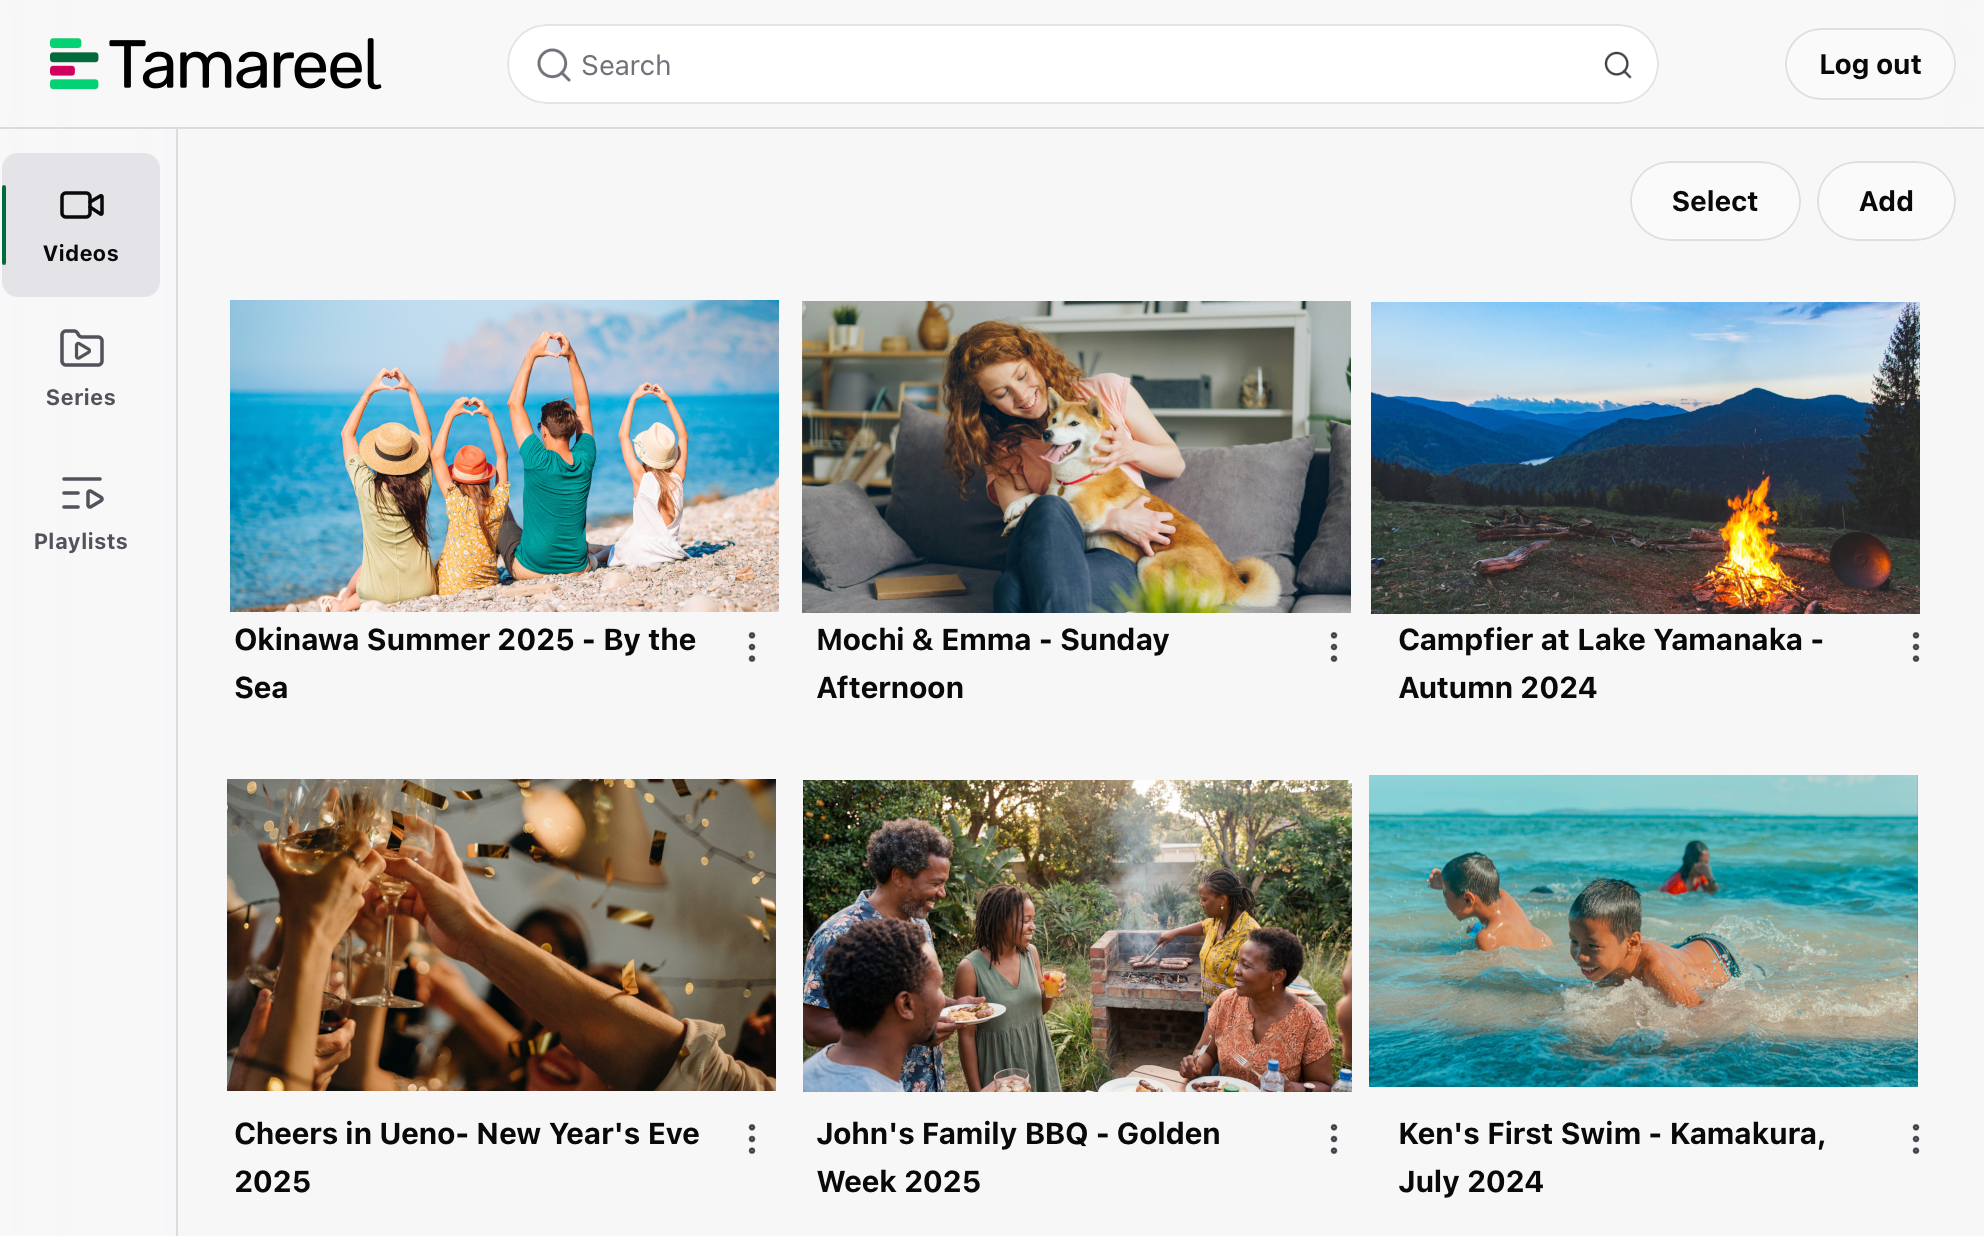
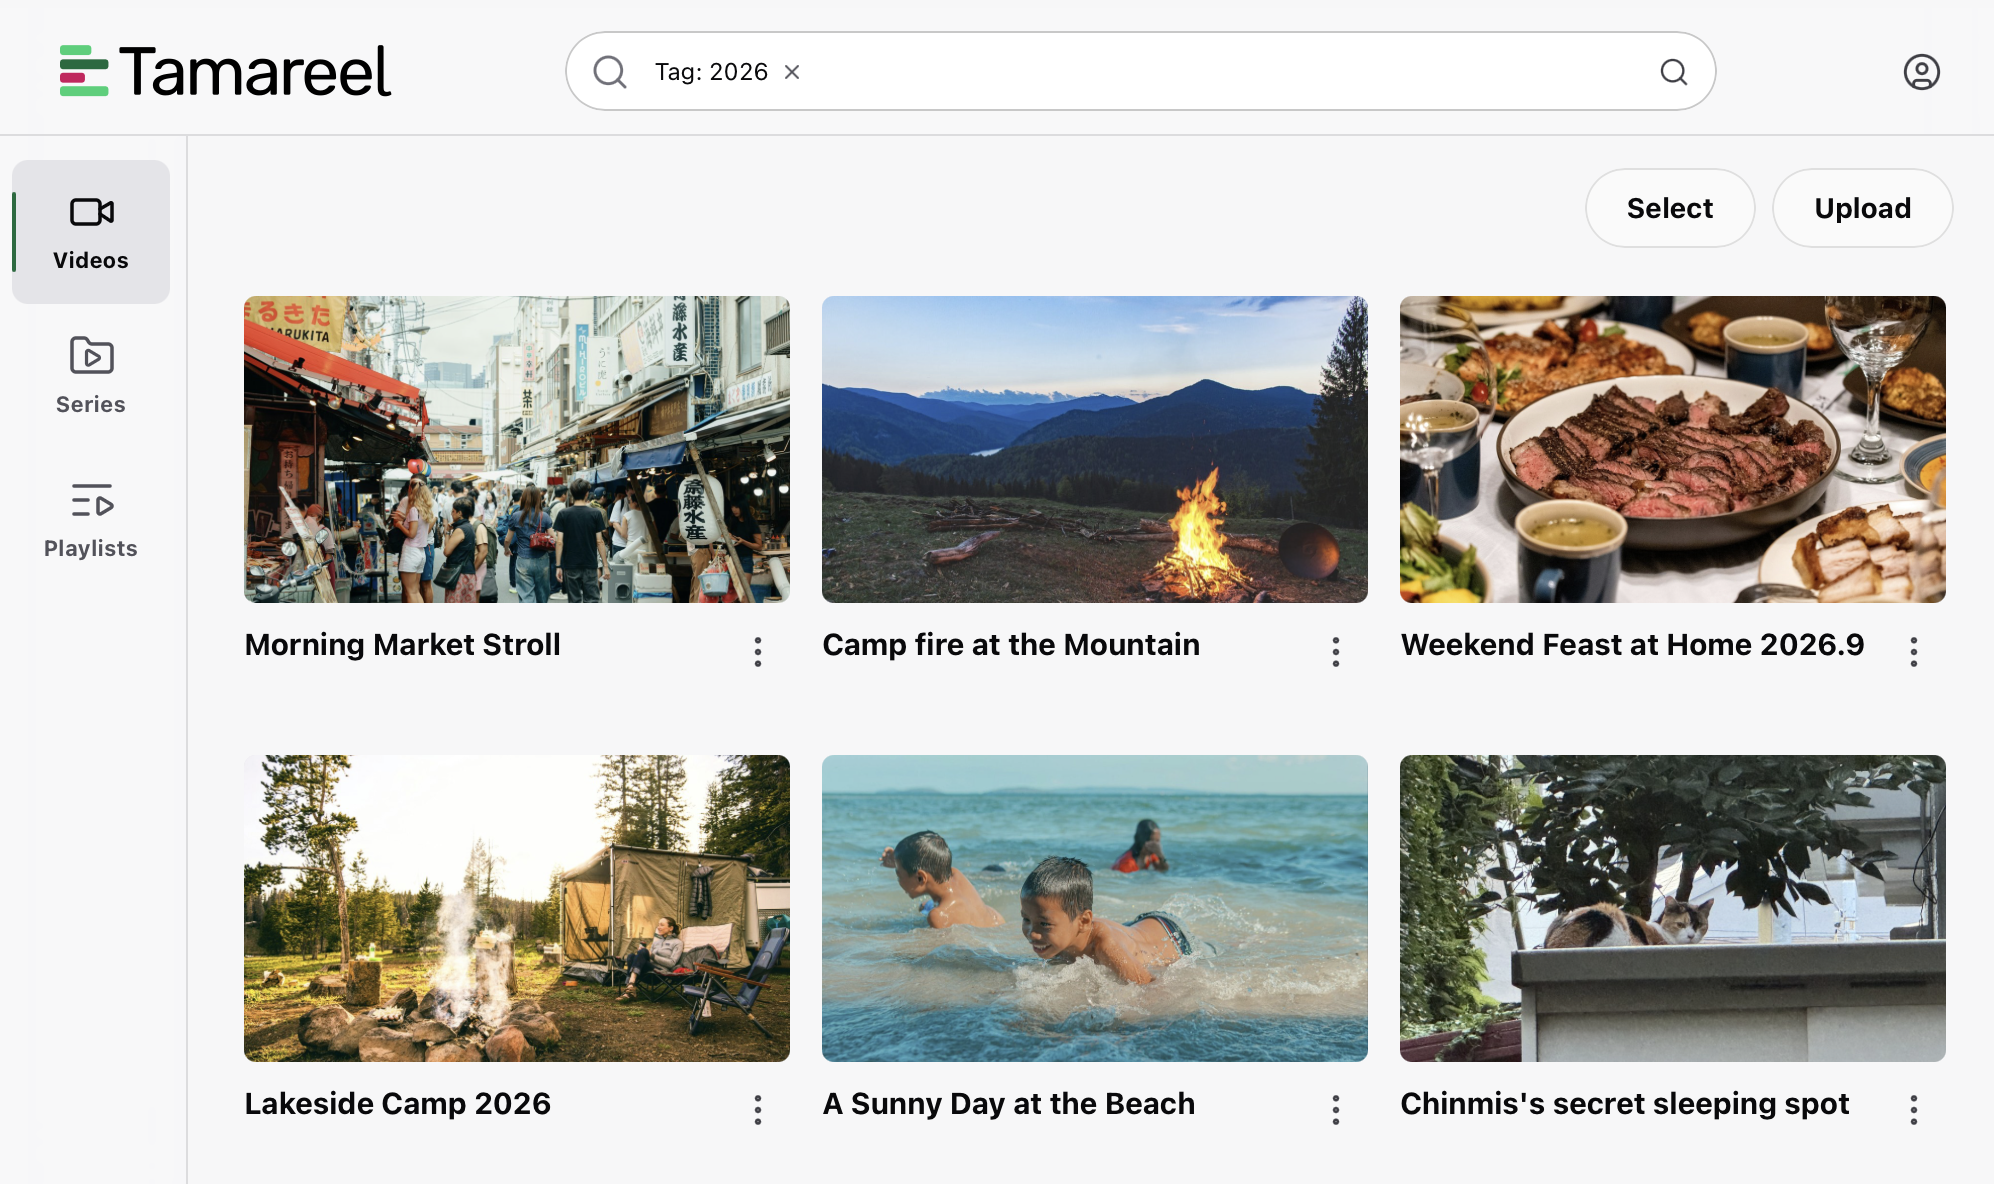
文言、画像修正

diff --git a/index.html b/index.html
@@ -24,8 +24,8 @@
       <div class="container hero-grid">
         <div class="hero-copy">
           <p class="eyebrow"><i></i> YOUR VIDEO LIBRARY</p>
-          <h1>保存するだけじゃない<br><em>動画を楽しむための</em><br>クラウドストレージ</h1>
-          <p class="lead">Tamareelならあなた専用の動画コレクションを自分好みに整理して、どこからでも楽しめます。</p>
+          <h1>自分専用の<br>動画配信サービス</h1>
+          <p class="lead">Tamareelは、自分専用の動画配信プラットフォームを構築できるクラウドサービスです。</p>
           <div class="hero-actions"><a class="button" href="https://app.tamareel.com/signup">はじめる <span aria-hidden="true">→</span></a><a
               class="button button-secondary" href="#features">詳しく見る</a></div>
         </div>
@@ -35,24 +35,24 @@
     <section id="features" class="section section-tint">
       <div class="container">
         <div class="section-intro">
-          <h2>動画のためのストレージ</h2>
-          <p>保存するだけでなく、整理して、探して、観る。あなたの動画コレクションを心地よく整えます。</p>
+          <h2>動画に特化した機能</h2>
+          <p>ただのクラウドストレージと違い、動画のスムーズな再生と充実した整理機能が特徴です。</p>
         </div>
         <div class="features">
           <article class="feature">
-            <div class="feature-icon">↑</div>
-            <h3>あなただけのコレクション</h3>
-            <p>共有機能はありません。あなただけのコレクションを安全に保管します。</p>
+            <div class="feature-icon">▷</div>
+            <h3>スムーズな再生</h3>
+            <p>パソコンでもスマートフォンでも、動画の好きなシーンからすぐ再生できます。</p>
           </article>
           <article class="feature">
             <div class="feature-icon">⌘</div>
-            <h3>自分好みに整理</h3>
-            <p>タイトル、タグ、説明を添えて、観たい動画にすぐたどり着けるコレクションへ。</p>
+            <h3>充実した整理機能</h3>
+            <p>タイトル、タグ、説明、プレイリストなど、動画を整理する機能が充実しています。</p>
           </article>
           <article class="feature">
-            <div class="feature-icon">▷</div>
-            <h3>好きなときに再生</h3>
-            <p>パソコンでもスマートフォンでも。あなたの動画を、どこからでも楽しめます。</p>
+            <div class="feature-icon">↑</div>
+            <h3>自分専用のコレクション</h3>
+            <p>動画の共有機能はありません。自分専用のコレクションを安全に保管します。</p>
           </article>
         </div>
       </div>
@@ -60,8 +60,8 @@
     <section id="how-it-works" class="section">
       <div class="container">
         <div class="section-intro">
-          <h2>はじめ方は、とてもシンプル。</h2>
-          <p>数分で、あなたの動画コレクションを楽しむ準備が整います。</p>
+          <h2>使い方はとても簡単</h2>
+          <p>複雑な設定は不要、すぐに始められます。</p>
         </div>
         <div class="steps">
           <article class="step">
@@ -77,7 +77,7 @@
           <article class="step">
             <div class="number">03</div>
             <h3>好きなときに観る</h3>
-            <p>整えた動画コレクションを、いつでも開けます。</p>
+            <p>どこからでも自分の動画コレクションを楽しめます。</p>
           </article>
         </div>
       </div>
@@ -85,8 +85,8 @@
     <section id="start" class="cta">
       <div class="container">
         <div class="cta-box">
-          <h2>あなたの動画を、<br>大切に並べよう。</h2>
-          <p>思い出も、作品も、日々の記録も。<br/>自分だけの動画コレクションを、今日から。</p><a class="button" href="https://app.tamareel.com/signup">Tamareelをはじめる <span
+          <h2>動画を楽しむ<br>場所を作ろう</h2>
+          <p>自分専用の動画配信プラットフォームが、数分で開始できます。</p><a class="button" href="https://app.tamareel.com/signup">Tamareelをはじめる <span
               aria-hidden="true">→</span></a>
         </div>
       </div>

diff --git a/en/index.html b/en/index.html
@@ -19,26 +19,26 @@
   <main id="top">
     <section class="hero"><div class="container hero-grid"><div class="hero-copy">
       <p class="eyebrow"><i></i> YOUR VIDEO LIBRARY</p>
-      <h1>More than storage.<br><em>A home for enjoying</em><br>your videos.</h1>
-      <p class="lead">Organize your personal video collection your way and enjoy it from anywhere with Tamareel.</p>
+      <h1>Your own<br>video streaming service</h1>
+      <p class="lead">Tamareel is a cloud service that lets you build your own private video streaming platform.</p>
       <div class="hero-actions"><a class="button" href="https://app.tamareel.com/signup">Get started <span aria-hidden="true">→</span></a><a class="button button-secondary" href="#features">Learn more</a></div>
     </div><div class="app-preview"><img class="main-visual" src="../images/en/main.png" alt="Tamareel video collection screen" /></div></div></section>
     <section id="features" class="section section-tint"><div class="container"><div class="section-intro">
-      <h2>Storage made for video</h2><p>More than a place to save files—organize, find, and watch your videos with ease.</p>
+      <h2>Features built for video</h2><p>Unlike ordinary cloud storage, Tamareel combines smooth video playback with robust organization tools.</p>
     </div><div class="features">
-      <article class="feature"><div class="feature-icon">↑</div><h3>Your personal collection</h3><p>No sharing features. Keep your collection safely to yourself.</p></article>
-      <article class="feature"><div class="feature-icon">⌘</div><h3>Organize your way</h3><p>Add titles, tags, and descriptions so the videos you want are easy to find.</p></article>
-      <article class="feature"><div class="feature-icon">▷</div><h3>Watch whenever you want</h3><p>Enjoy your videos from anywhere, on your computer or phone.</p></article>
+      <article class="feature"><div class="feature-icon">▷</div><h3>Smooth playback</h3><p>On your computer or smartphone, jump straight to any scene in your videos.</p></article>
+      <article class="feature"><div class="feature-icon">⌘</div><h3>Powerful organization tools</h3><p>Organize your videos with titles, tags, descriptions, playlists, and more.</p></article>
+      <article class="feature"><div class="feature-icon">↑</div><h3>Your private collection</h3><p>Video sharing is not available. Keep your personal collection securely stored.</p></article>
     </div></div></section>
     <section id="how-it-works" class="section"><div class="container"><div class="section-intro">
-      <h2>Getting started is simple.</h2><p>In just a few minutes, your video collection is ready to enjoy.</p>
+      <h2>Getting started is easy</h2><p>No complex setup is required—get started right away.</p>
     </div><div class="steps">
       <article class="step"><div class="number">01</div><h3>Add your videos</h3><p>Upload the videos you already have.</p></article>
       <article class="step"><div class="number">02</div><h3>Add the details</h3><p>Enter titles, descriptions, and tags to make everything easier to find.</p></article>
-      <article class="step"><div class="number">03</div><h3>Watch anytime</h3><p>Open your organized video collection whenever you like.</p></article>
+      <article class="step"><div class="number">03</div><h3>Watch anytime</h3><p>Enjoy your personal video collection from wherever you are.</p></article>
     </div></div></section>
     <section id="start" class="cta"><div class="container"><div class="cta-box">
-      <h2>Give your videos<br>a place that matters.</h2><p>Memories, creative work, and everyday moments.<br>Start your own video collection today.</p><a class="button" href="https://app.tamareel.com/signup">Get started with Tamareel <span aria-hidden="true">→</span></a>
+      <h2>Create a place<br>to enjoy your videos.</h2><p>Your own private video streaming platform can be ready in minutes.</p><a class="button" href="https://app.tamareel.com/signup">Get started with Tamareel <span aria-hidden="true">→</span></a>
     </div></div></section>
   </main>
   <footer><div class="container footer-inner"><div class="footer-brand"><img src="../images/logo_light.svg" alt="Tamareel" /></div><div class="footer-meta"><a href="terms.html">Terms of Use</a><a href="privacy.html">Privacy Policy</a><a href="commercial-disclosure.html">Commercial Disclosure</a><span>© 2026 Tamareel. All rights reserved.</span></div></div></footer>
